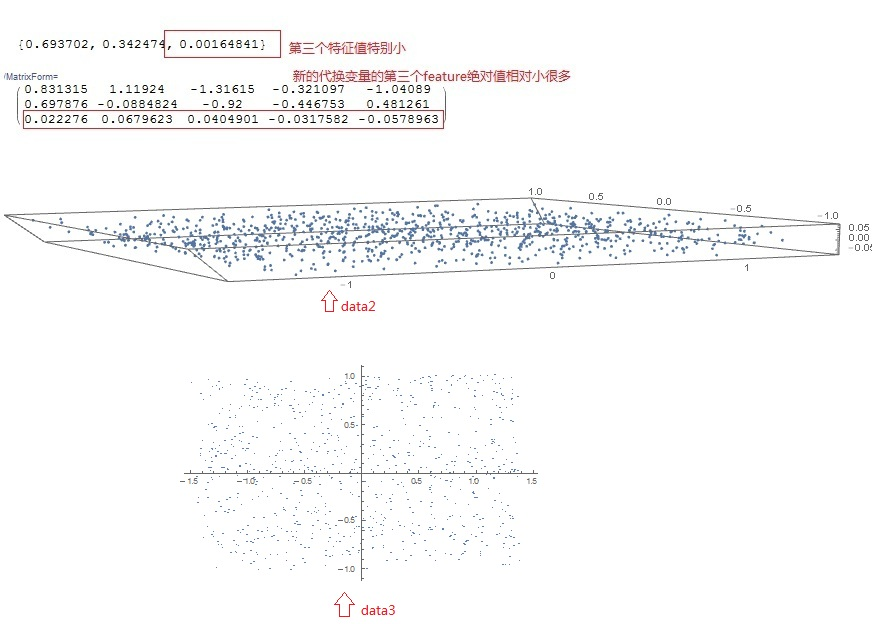
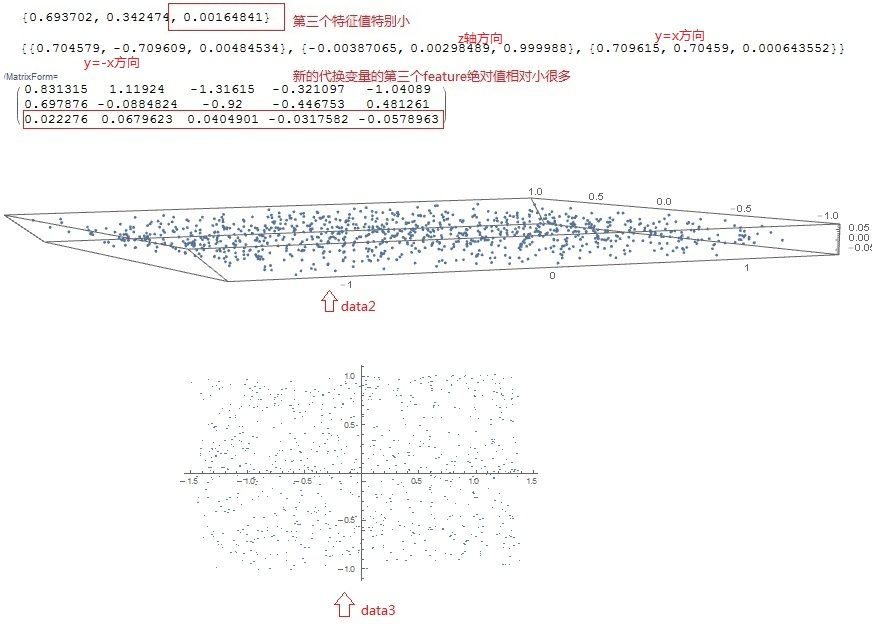
x

Changed region(s): [[0.031, 0.0, 0.9599, 0.1218], [0.0619, 0.0, 0.0929, 0.0304]]

diff --git a/线性代数读书笔记.md b/线性代数读书笔记.md
@@ -134,7 +134,7 @@ ListPointPlot3D[data, AspectRatio -> 1]
 
 ![特征值用于PCA](img/algebra/pca1.jpg)
 
-从上图可以看出，虽然每个采样都有三个feature，实际上存在很大的冗余，自由度受到了限制，分布在三维空间中的 y=-x这样一个平面上，有效的feature数更接近2。
+从上图可以看出，虽然每个采样都有三个feature，实际上存在很大的冗余，自由度受到了限制，分布在三维空间中的 y=100-x这样一个平面上，有效的feature数更接近2。
 
 在进行主成分分析前，一定要对数据做标准化处理：每个feature都减去该feature的均值，并除以标准差。
 
@@ -177,8 +177,9 @@ ListPlot[Transpose[data3]]
 可以看到
 
 1. 三个特征值，其中两个特征值的绝对值较大，另外一个较小；y1,y2,y3分别对应三个成分；
-2. 按照公式计算出新的代换变量data2，检视它的前5个采样，他们的第三个feature绝对值也比较小，数据几乎散落在一个平面内
-3. 对数据进行降维，抛弃第三成分y3，得到data3，将数据投射到二维面屏上
+2. 三个特征向量，分别指示的方向符合预期：y=-x方向（数据标准化后就从y=100-x移动到y=-x了）、z轴方向，y=x方向，三个方向是正交的。
+3. 按照公式计算出新的代换变量data2，检视它的前5个采样，他们的第三个feature绝对值也比较小，数据几乎散落在一个平面内
+4. 对数据进行降维，抛弃第三成分y3，得到data3，将数据投射到二维面屏上
 
 ![特征值用于PCA](img/algebra/pca2.jpg)
 
